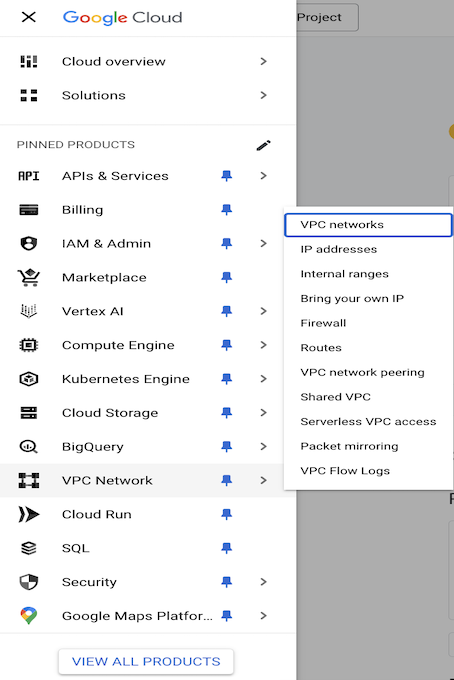
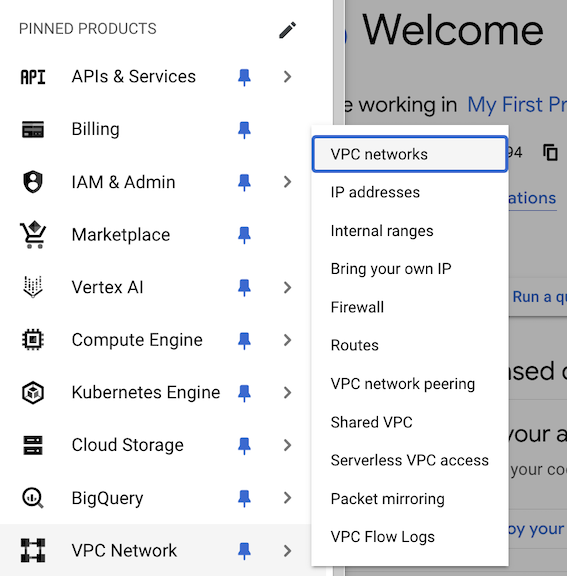
First draft

diff --git a/adb-gcp/gcp-started/gcp-started.md b/adb-gcp/gcp-started/gcp-started.md
@@ -1,0 +1,88 @@
+
+# Get started - Oracle Database@Google Cloud - Autonomous Database
+
+## Introduction
+
+Oracle Database@Google Cloud is an Oracle Cloud Database service that runs Oracle Database workloads in your Google Cloud environment. When you implement this solution, you deploy resources in two cloud environments: database resources are in Google Cloud, while the database administration control plane is in Oracle Cloud Infrastructure (OCI). This lets you to deploy Oracle Database products in your Google Cloud environment while OCI maintains the administration capabilities.
+
+Your Google Cloud-based applications access Oracle Databases directly from within the Google Cloud environment. You perform most database administrative operations in the Google Cloud Console as well. Maintaining the database control plane in OCI lets Oracle Database@Google Cloud be easily managed and upgraded with the latest operational and administrative capabilities.
+
+All hardware for Oracle Database@Google Cloud uses Google Cloud networking. The service benefits from the simplicity, security, and low latency of a single operating environment within Google Cloud.
+
+### Available Database Services
+
+
+Oracle Database@Google Cloud offers the following Oracle Database services:
+
+* Oracle Exadata Database Service (available only with the purchase of a private offer)
+* Oracle Autonomous Database (available for Pay As You Go and Private Offer purchases)
+
+Both Oracle Autonomous Database and Oracle Exadata Database Service use the same underlying high-performance hardware optimized for database workloads, but they each offer distinct advantages to meet different customer needs.
+
+### Purchase Offer Options
+
+Oracle has two options for purchasing Oracle Database@Google Cloud:
+
+* Private offer: With this option, you first contact Oracle's sales team to negotiate a contract for Oracle Database@Google Cloud. To use Oracle Exadata Database Service, you must purchase Oracle Database@Google Cloud using a private offer. You can also provision Autonomous Database after purchasing a private offer.
+* Pay As You Go offer: You can purchase this offer in the Google Cloud Marketplace without contacting Oracle Sales. Oracle offers Autonomous Database for customers purchasing the Pay As You Go offer. Pay as You Go offers the most flexibility, letting you start and stop using the service at any time.
+
+**For this workshop we will be using the Pay-As-You-Go offer.**
+
+### Offer Activation
+
+To activate an order, an authorized user with the required permissions signs in to the Google Cloud console and follows the steps based on the offer type selected:
+
+* Public Offer: Open the Google Cloud Marketplace in a browser window, then search for and select the "Oracle Database@Google Cloud" offering.
+* Private Offer: Click the link in the email you received from Oracle, or open the Google Cloud Marketplace Orders page, then click the link for your offer.
+
+At this point, you connect your Google Cloud billing account with a new or existing OCI cloud account. **Oracle does not charge you for the new OCI Cloud account**. Here's what happens during this process:
+
+Google Cloud Marketplace prompts you to select an existing OCI cloud account (this option is only available for private offers), or create a new OCI cloud account to use with the Oracle Database@Google Cloud. An OCI account is required because, while the databases are deployed in your Google Cloud environment, some resource components like the Database control plane and metrics are deployed in OCI.
+
+Estimated Time: 30 minutes
+
+### Objectives
+
+As a database user, DBA, or application developer:
+
+1. Google Cloud Onboarding
+
+## Task 1: Google Cloud Onboarding
+
+In this section, you will perform the steps for Onboarding with Oracle Database@Google Cloud.
+
+1.  Sign in to the Google Cloud console at https://console.cloud.google.com.
+
+2. In the Google Cloud console search field, search for "Marketplace" and navigate to the **Google Cloud Marketplace**.
+
+    ![](./images/market-place.png " ")
+
+3. In Marketplace, click **Your orders** in the left navigation menu to view your Marketplace orders.
+
+    ![](./images/orders.png " ")
+
+4. Click Oracle Database@Google Cloud in the **Product** column to navigate to the product details page.
+
+    ![](./images/oracle-database-gcp.png " ")
+
+5. On the page, click **Manage on Console**.
+
+    ![](./images/manage-on-console.png " ")
+
+6. On the Oracle Database@Google Cloud **Overview** page, click **Create Account**.
+
+    ![](./images/overview-page.png " ")
+
+7. Enter the details for creating a new OCI account.
+
+    ![](./images/oci-tenancy.png " ")
+
+8. Return to the browser window displaying the Google Cloud console. The console displays a message that says "Please wait for your account linking to become active." The account creation and inking takes a few minutes.
+
+    ![](./images/linking-in-progress.png " ")
+
+You may now **proceed to the next lab** to provision Google Cloud resources.
+
+## Acknowledgements
+- **Authors/Contributors** - Vivek Verma, Master Principal Cloud Architect, North America Cloud Engineering
+- **Last Updated By/Date** - Vivek Verma, Jan 2025

diff --git a/adb-gcp/workshop/intro.md b/adb-gcp/workshop/intro.md
@@ -1,33 +1,34 @@
 # About this Workshop
 
-## Introduction to Oracle Database@GCP
+## Introduction to Oracle Database@Google Cloud
 Oracle Database@Google Cloud is an Oracle Cloud Database service that runs Oracle Database workloads in your Google Cloud environment. Built on Oracle's best database services - Oracle Exadata Database Service and Oracle Autonomous Database - you can quickly develop and modernize applications with capabilities such as Oracle Database 23ai AI Vector Search and Google’s Vertex AI. 
 
-With native integration, you can deploy your Oracle database services in a Google Cloud data center running on Oracle Cloud Infrastructure (OCI) Exadata hardware with minimal latency. Workloads reside in Google Cloud and the Exadata systems used by both services are deployed in Google Cloud data centers. You get the best from Oracle and GCP – which includes the performance and monitoring tools, developer tools, analytics, etc.
+With native integration, you can deploy your Oracle database services in a Google Cloud data center running on Oracle Cloud Infrastructure (OCI) Exadata hardware with minimal latency. Workloads reside in Google Cloud and the Exadata systems used by both services are deployed in Google Cloud data centers. You get the best from Oracle and Google Cloud – which includes the performance and monitoring tools, developer tools, analytics, etc.
 
 In this workshop, you will learn how to deploy Autonomous Database@Google Cloud. Then, you will run database workloads, monitor those workloads and migrate data to the platform.
 
 Estimated Workshop Time: 90 minutes
 
 ## Workshop Objectives
-This set of hands-on-labs is designed to assist developers, multicloud architects, and database users in setting up and using various features of the **Autonomous Database Service**. The labs in this workshop address provisioning Autonomous Database@GCP, application development and migrating data to Autonomous Database@GCP.
+This set of hands-on-labs is designed to assist developers, multicloud architects, and database users in setting up and using various features of the **Autonomous Database Service**. The labs in this workshop address provisioning Autonomous Database@Google Cloud, application development and migrating data to Autonomous Database@Google Cloud.
 
 ## Prerequisites
 - An existing Google Cloud Account
 
-If you do not have an Oracle Cloud Infrastructure (OCI) account, you can create one during your service deployment. If you do have an OCI account, you can use it with Oracle Database@GCP.
+If you do not have an Oracle Cloud Infrastructure (OCI) account, you can create one during your service deployment. If you do have an OCI account, you can use it with Oracle Database@Google Cloud.
 
 
-Find more details on getting started [Onboarding with Oracle Database@GCP](https://docs.oracle.com/en-us/iaas/Content/database-at-gcp/oagcp-onboard.htm)
+Find more details on getting started [Onboarding with Oracle Database@Google Cloud](https://docs.oracle.com/en-us/iaas/Content/database-at-gcp/oagcp-onboard.htm)
 
 
 ### Developers and Database Users
 
 * Get Started
-* Lab 1: Provisinoing Autonomous Database@GCP
-* Lab 2: Connect ADB with Swingbench Application
-* Lab 3: Migrate data to ADB@GCP
-* Lab 4: Monitoring ADB@GCP
+* Lab 1: Provisinoing Google Cloud resources
+* Lab 2: Provisinoing Autonomous Database@Google Cloud
+* Lab 3: Connect ADB with Swingbench Application
+* Lab 4: Migrate data to ADB@Google Cloud
+* Lab 5: Monitoring ADB@Google Cloud
 
 Please proceed to the next lab.
 

diff --git a/adb-gcp/gcp-get-started/gcp-get-started.md b/adb-gcp/gcp-get-started/gcp-get-started.md
@@ -1,10 +1,9 @@
 
-# Get started - Autonomous Database
+# Provisioning Google Cloud resources
 
 ## Introduction
 
-This lab walks you through the prerequisites to get started with Oracle Database@GCP - Autonomous Database. This involves creating a Virtual Private Cloud (VPC) Network in Google Cloud that will be associated with the Autonomous Database and a Compute VM instance that will be used to connect to the Autonomous Database.
-
+This lab walks you through the prerequisites to get started with Oracle Database@Google Cloud - Autonomous Database. This involves creating a Virtual Private Cloud (VPC) Network in Google Cloud that will be associated with the Autonomous Database and a Compute VM instance that will be used to connect to the Autonomous Database.
 
 Estimated Time: 30 minutes
 
@@ -13,15 +12,18 @@ Estimated Time: 30 minutes
 As a database user, DBA, or application developer:
 
 1. Create a Virtual Private Cloud (VPC) Network in Google Cloud Portal.
-2. Provision a Compute VM instance in GCP.
+2. Provision a Compute VM instance in Google Cloud.
 
 ## Task 1: Create a Virtual Private Cloud (VPC)
 
-In this section, you will create a VPC.
+In this section, you will create a VPC which will have two subnets: 
+
+* A private subnet where you Autonomous Database is deployed (this will be created as part of your ADB deployment). A private subnet will protect your database endpoint from internet access.
+* A public subnet where you will deploy a virtual machine. You will use this VM to access Autonomous Database.
 
 1.  Login to Google Cloud Console (console.cloud.google.com) and click on the **Navigation Menu**. Then click on **VPC Networks** under **VPC Network**..
 
-    ![](./images/navigation-menu.png " ")
+    ![](./images/navigation-menu2.png " ")
 
 2.	On the **VPC networks** page, click on the **CREATE VPC NETWORK** button.
 
@@ -56,7 +58,7 @@ In this section, you will create a VPC.
 
     ![](./images/vpc-app-network.png " ")
 
-## Task 2:  Provision GCP Compute VM Instance
+## Task 2:  Provision Google Cloud Compute VM Instance
 
 1.  From the Google Cloud Console (console.cloud.google.com), click on the **Navigation Menu**. Then click on **VM instances** under **Compute Engine**.
 

diff --git a/adb-gcp/adb-provisioning-databases/adb-provisioning-databases.md b/adb-gcp/adb-provisioning-databases/adb-provisioning-databases.md
@@ -15,7 +15,7 @@ As a database user, DBA or application developer:
 
 ### Required Artifacts
 
-- A GCP account with a pre-configured Virtual Private Cloud (VPC) Network.
+- A Google Cloud account with a pre-configured Virtual Private Cloud (VPC) Network.
 
 ## Task 1: Create Autonomous Database
 

diff --git a/adb-gcp/migrate-to-adb/migrate-to-adb.md b/adb-gcp/migrate-to-adb/migrate-to-adb.md
@@ -17,7 +17,7 @@ As a database admin or user:
 
 ### Required Artifacts
 - Access to a pre-provisioned Autonomous Database instance.
-- GCP Compute VM instance.
+- Google Cloud Compute VM instance.
 
 
 ## Task 1: Generate access key for your user account
